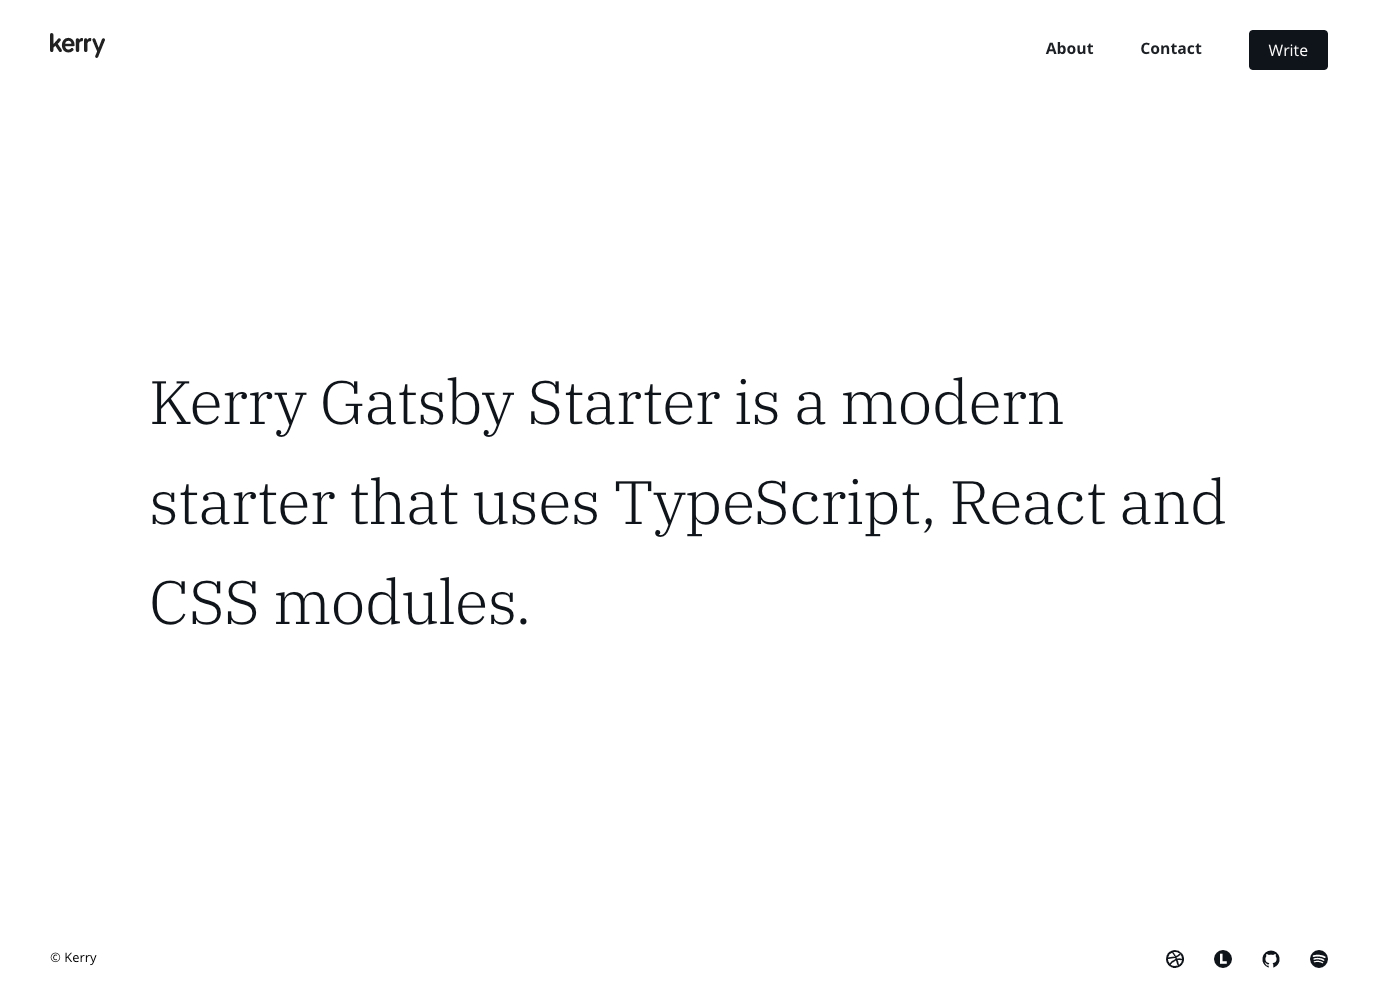
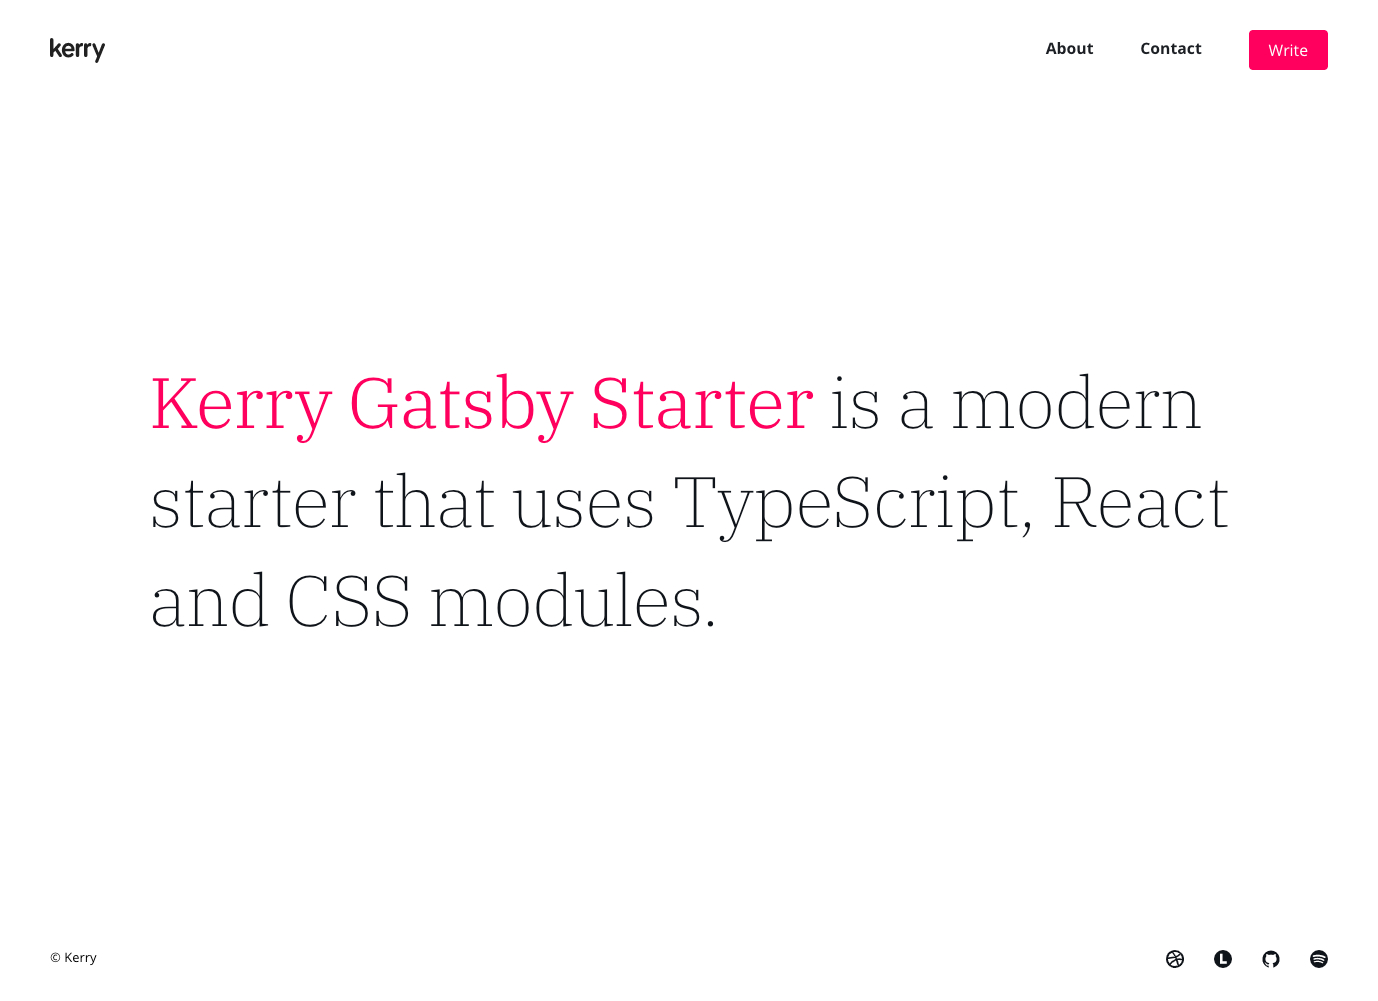
Update: hero

diff --git a/src/styles/variables.scss b/src/styles/variables.scss
@@ -28,6 +28,7 @@ $page-width: 1290px;
 // Fonts
 $serif: "IBM Plex Serif", serif;
 $sans: "Open Sans", sans-serif;
+$headings: "Anton", sans-serif;
 
 $font-size-l: calc(1.8rem + (23 - 18) * ((100vw - 375px) / (1500 - 375)));
 $font-size-m: 1.6rem;
@@ -37,7 +38,7 @@ $font-size-max: 5rem;
 $font-size-app: 1.4rem;
 $font-size-min: 1.3rem;
 $font-size: calc(1.4rem + (16 - 14) * ((100vw - 375px) / (1500 - 375)));
-$font-size-hero: calc(3rem + (65 - 30) * ((100vw - 375px) / (1500 - 375)));
+$font-size-hero: calc(4rem + (75 - 40) * ((100vw - 375px) / (1500 - 375)));
 $font-size-quote: calc(1.8rem + (30 - 18) * ((100vw - 375px) / (1500 - 375)));
 $font-size-block-title: calc(
   2.2rem + (35 - 22) * ((100vw - 375px) / (1500 - 375))
@@ -119,10 +120,20 @@ $icon-size-button-big: calc(
 );
 
 //Colors
-$primary: #10141a;
+$bright-red: #ff0000;
+$red: #ff005d;
+$yellow: #ffcc00;
+$blue: #0084ff;
+$green: #00ffae;
+$purple: #6400ff;
+$orange: #ffa200;
+$black: #10141a;
+$white: #fcfcfc;
+
+$primary: $black;
 $secondary: #73737d;
 $background-color: #fff;
-$accent: #6400ff;
+$accent: $red;
 $primary-bg: #f2f2f2;
 $horizontalRule: rgba(8, 8, 11, 0.15);
 
@@ -148,17 +159,6 @@ $fade-up: all 0.1s cubic-bezier(0.63, 0.03, 0.17, 0.95);
 $line: 0.6s cubic-bezier(1, 0, 0, 1);
 $scroll: all 0.9s cubic-bezier(0.63, 0.03, 0.17, 0.95);
 $show: max-height 0.3s cubic-bezier(0.63, 0.03, 0.17, 0.95);
-
-//Other color
-$bright-red: #ff0000;
-$red: #ff005d;
-$yellow: #ffcc00;
-$blue: #0084ff;
-$green: #00ffae;
-$purple: #6400ff;
-$orange: #ffa200;
-$black: #10141a;
-$white: #fcfcfc;
 
 //objects
 $circle: 20rem;

diff --git a/src/components/header/HeaderLink.tsx b/src/components/header/HeaderLink.tsx
@@ -1,8 +1,8 @@
-import React, { ReactNode } from 'react';
+import React, { ReactNode } from "react";
 
-import { Link } from 'components/link/Link';
+import { Link } from "components/link/Link";
 
-import s from './HeaderLink.scss';
+import s from "./HeaderLink.scss";
 
 interface HeaderLinkProps {
   name: string;
@@ -11,8 +11,8 @@ interface HeaderLinkProps {
 }
 
 export const HeaderLink = ({ name, to, icon }: HeaderLinkProps) => {
-  const isLink = typeof to !== 'undefined';
-  const isExternal = isLink && /^((https?:)?\/\/|[0-9a-zA-Z]+:)/.test(to || '');
+  const isLink = typeof to !== "undefined";
+  const isExternal = isLink && /^((https?:)?\/\/|[0-9a-zA-Z]+:)/.test(to || "");
 
   const content = () => (
     <>
@@ -30,7 +30,7 @@ export const HeaderLink = ({ name, to, icon }: HeaderLinkProps) => {
   }
 
   return (
-    <Link className={s.link} to={to}>
+    <Link className={s.link} activeClassName={s.active} to={to}>
       {content()}
     </Link>
   );

diff --git a/src/components/hero/Hero.tsx b/src/components/hero/Hero.tsx
@@ -5,14 +5,20 @@ import { Container } from "components/container/Container";
 import s from "./Hero.scss";
 
 interface HeroProps {
-  children: ReactNode;
+  title: string;
+  text?: string;
+  strong?: string;
 }
 
-export const Hero = ({ children }: HeroProps) => (
+export const Hero = ({ text, title, strong }: HeroProps) => (
   <div className={s.hero}>
     <Container>
       <div className={s.hero__col}>
-        <div className={s.hero__text}>{children}</div>
+        <h1 className={s.title}>
+          {strong ? <span className={s.strong}>{strong}</span> : ""}
+          {title}
+        </h1>
+        {text ? <p className={s.text}>{text}</p> : ""}
       </div>
     </Container>
   </div>

diff --git a/src/pages/index.tsx b/src/pages/index.tsx
@@ -9,11 +9,10 @@ export default () => (
   <BaseLayout>
     <Helmet title="Home" />
 
-    <Hero>
-      <h1>
-        Kerry Gatsby Starter is a modern starter that uses TypeScript, React and
-        CSS modules.
-      </h1>
-    </Hero>
+    <Hero
+      strong="Kerry Gatsby Starter"
+      title=" is a modern starter that uses TypeScript, React and
+        CSS modules."
+    ></Hero>
   </BaseLayout>
 );

diff --git a/src/components/hero/Hero.scss b/src/components/hero/Hero.scss
@@ -7,12 +7,16 @@
   @include flex;
   width: 100%;
 
-  & h1 {
+  & .title {
     font-family: $serif;
-    font-weight: 300;
-    line-height: 1.65;
+    font-weight: 200;
+    line-height: 1.4;
     font-size: $font-size-hero;
     max-width: $desktop;
     margin: auto;
+  }
+  & .strong {
+    color: $accent;
+    font-weight: 300;
   }
 }

diff --git a/src/components/button/Button.scss b/src/components/button/Button.scss
@@ -11,12 +11,12 @@
   text-decoration: none;
   line-height: 40px;
   vertical-align: middle;
-  background-color: $black;
+  background-color: $accent;
   color: $white;
   transition: $fade;
   border-radius: $rounded;
 
   &:hover {
-    background-color: lighten($black, 15%);
+    background-color: lighten($accent, 15%);
   }
 }

diff --git a/src/styles/font-family.css b/src/styles/font-family.css
@@ -1,1 +1,1 @@
-@import url("https://fonts.googleapis.com/css?family=Open+Sans:300,400,500,700|IBM+Plex+Serif:100,200,300,400");
+@import url("https://fonts.googleapis.com/css?family=Open+Sans:300,400,500,700|IBM+Plex+Serif:100,200,300,400|Anton:400");

diff --git a/src/components/link/Link.tsx b/src/components/link/Link.tsx
@@ -1,5 +1,5 @@
-import React from 'react';
-import { Link as GatsbyLink } from 'gatsby';
+import React from "react";
+import { Link as GatsbyLink } from "gatsby";
 
 interface LinkProps {
   children: React.ReactNode;

diff --git a/src/components/header/HeaderLink.scss b/src/components/header/HeaderLink.scss
@@ -24,4 +24,7 @@
       fill: $primary;
     }
   }
+  &.active {
+    color: $accent;
+  }
 }
